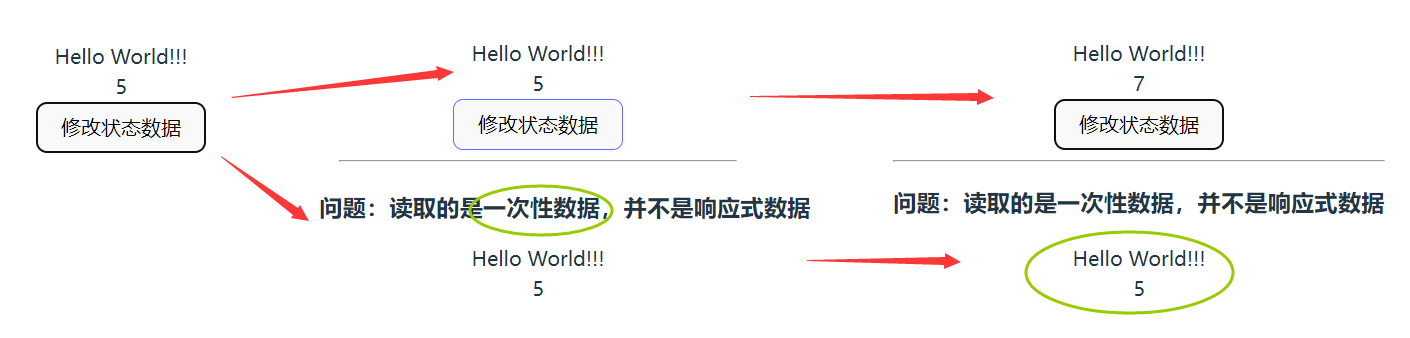
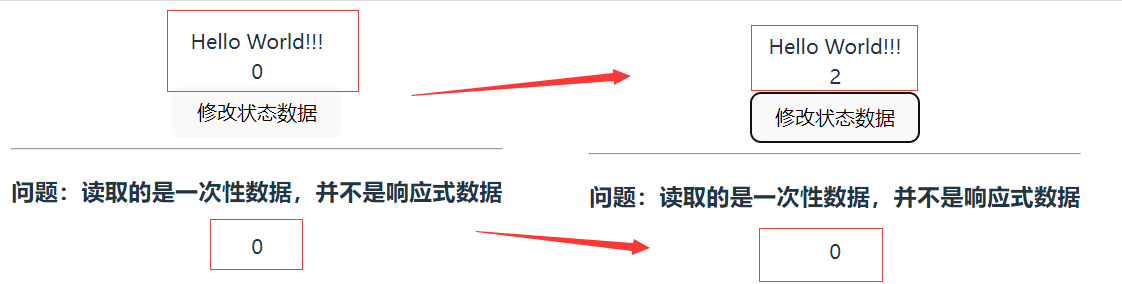
pinia改变状态数据和注意事项(修改后)

diff --git a/pinia-test/src/components/Announcement.vue b/pinia-test/src/components/Announcement.vue
@@ -3,12 +3,10 @@
     <div>
         <h3>问题：读取的是一次性数据，并不是响应式数据</h3>
     </div>
-    <div>{{ helloWorld1 }}</div>
     <div>{{ count1 }}</div>
     <div>
         <h3>解决问题：</h3>
     </div>
-    <div>{{ helloWorld2 }}</div>
     <div>{{ count2 }}</div>
 </template>
 
@@ -18,9 +16,9 @@ import { storeToRefs } from 'pinia'
 
 // 把store的Helloworld和count数据解构出来
 const store = mainStore()
-const { helloWorld1, count1 } = store
+const { count1 } = store
 // storeToRefs 解决 读取的是一次性数据，并不是响应式数据 问题
-const { helloWorld2, count2 } = storeToRefs(store)
+const { count2 } = storeToRefs(store)
 </script>
 
 <style scoped></style>

diff --git a/pinia-test/src/store/index.ts b/pinia-test/src/store/index.ts
@@ -11,9 +11,7 @@ export const mainStore = defineStore('main', {
             count: 0,
             
             // 解决 读取的是一次性数据，并不是响应式数据 问题的数据
-            helloWorld1: 'Hello World!!!',
             count1: 0,
-            helloWorld2: 'Hello World!!!',
             count2: 0,
         }
     },

diff --git a/pinia-test/pinia.md b/pinia-test/pinia.md
@@ -175,7 +175,7 @@ const store = mainStore()
 
 ## 注意事项
 
-**index.ts**，添加**helloWorld1、count1**数据
+**index.ts**，添加**count1**数据
 
 ```ts
 // 1. 定义状态容器
@@ -191,7 +191,6 @@ export const mainStore = defineStore('main', {
             count: 0,
             
             // 解决 读取的是一次性数据，并不是响应式数据 问题的数据
-            helloWorld1: 'Hello World!!!',
             count1: 0,
         }
     },
@@ -235,8 +234,7 @@ const handleClick = () => {
     <div>
         <h3>问题：读取的是一次性数据，并不是响应式数据</h3>
     </div>
-    <div>{{ helloWorld }}</div>
-    <div>{{ count }}</div>
+    <div>{{ count1 }}</div>
 </template>
 
 <script lang="ts" setup>
@@ -244,7 +242,7 @@ import { mainStore } from '../store/index'
 
 // 把store的Helloworld和count数据解构出来
 const store = mainStore()
-const { helloWorld, count } = store
+const { count1 } = store
 </script>
 
 <style scoped></style>
@@ -272,13 +270,13 @@ import Announcement from './components/Announcement.vue'
 
 运行到页面
 
-![image-20231212102225098](D:\document\Pinia\code\pinia-test\public\image-20231212102225098.png)
+![image-20231212105229972](D:\document\Pinia\code\pinia-test\public\image-20231212102225098.png)
 
 
 
 ### 解决方法：使用 Pinia 提供的 storeToRefs 方法
 
-**index.ts**，添加**helloWorld2、count2**数据
+**index.ts**，添加**count2**数据
 
 ```ts
 // 1. 定义状态容器
@@ -294,9 +292,7 @@ export const mainStore = defineStore('main', {
             count: 0,
             
             // 解决 读取的是一次性数据，并不是响应式数据 问题的数据
-            helloWorld1: 'Hello World!!!',
             count1: 0,
-            helloWorld2: 'Hello World!!!',
             count2: 0,
         }
     },
@@ -339,12 +335,10 @@ const handleClick = () => {
     <div>
         <h3>问题：读取的是一次性数据，并不是响应式数据</h3>
     </div>
-    <div>{{ helloWorld1 }}</div>
     <div>{{ count1 }}</div>
     <div>
         <h3>解决问题：</h3>
     </div>
-    <div>{{ helloWorld2 }}</div>
     <div>{{ count2 }}</div>
 </template>
 
@@ -354,9 +348,9 @@ import { storeToRefs } from 'pinia'
 
 // 把store的Helloworld和count数据解构出来
 const store = mainStore()
-const { helloWorld1, count1 } = store
+const { count1 } = store
 // storeToRefs 解决 读取的是一次性数据，并不是响应式数据 问题
-const { helloWorld2, count2 } = storeToRefs(store)
+const { count2 } = storeToRefs(store)
 </script>
 
 <style scoped></style>
@@ -364,5 +358,7 @@ const { helloWorld2, count2 } = storeToRefs(store)
 
 运行到页面
 
-![image-20231212104007864](C:\Users\17276\AppData\Roaming\Typora\typora-user-images\image-20231212104007864.png)
+![image-20231212104952616](D:\document\Pinia\code\pinia-test\public\image-20231212104007864.png)
+
+
 
